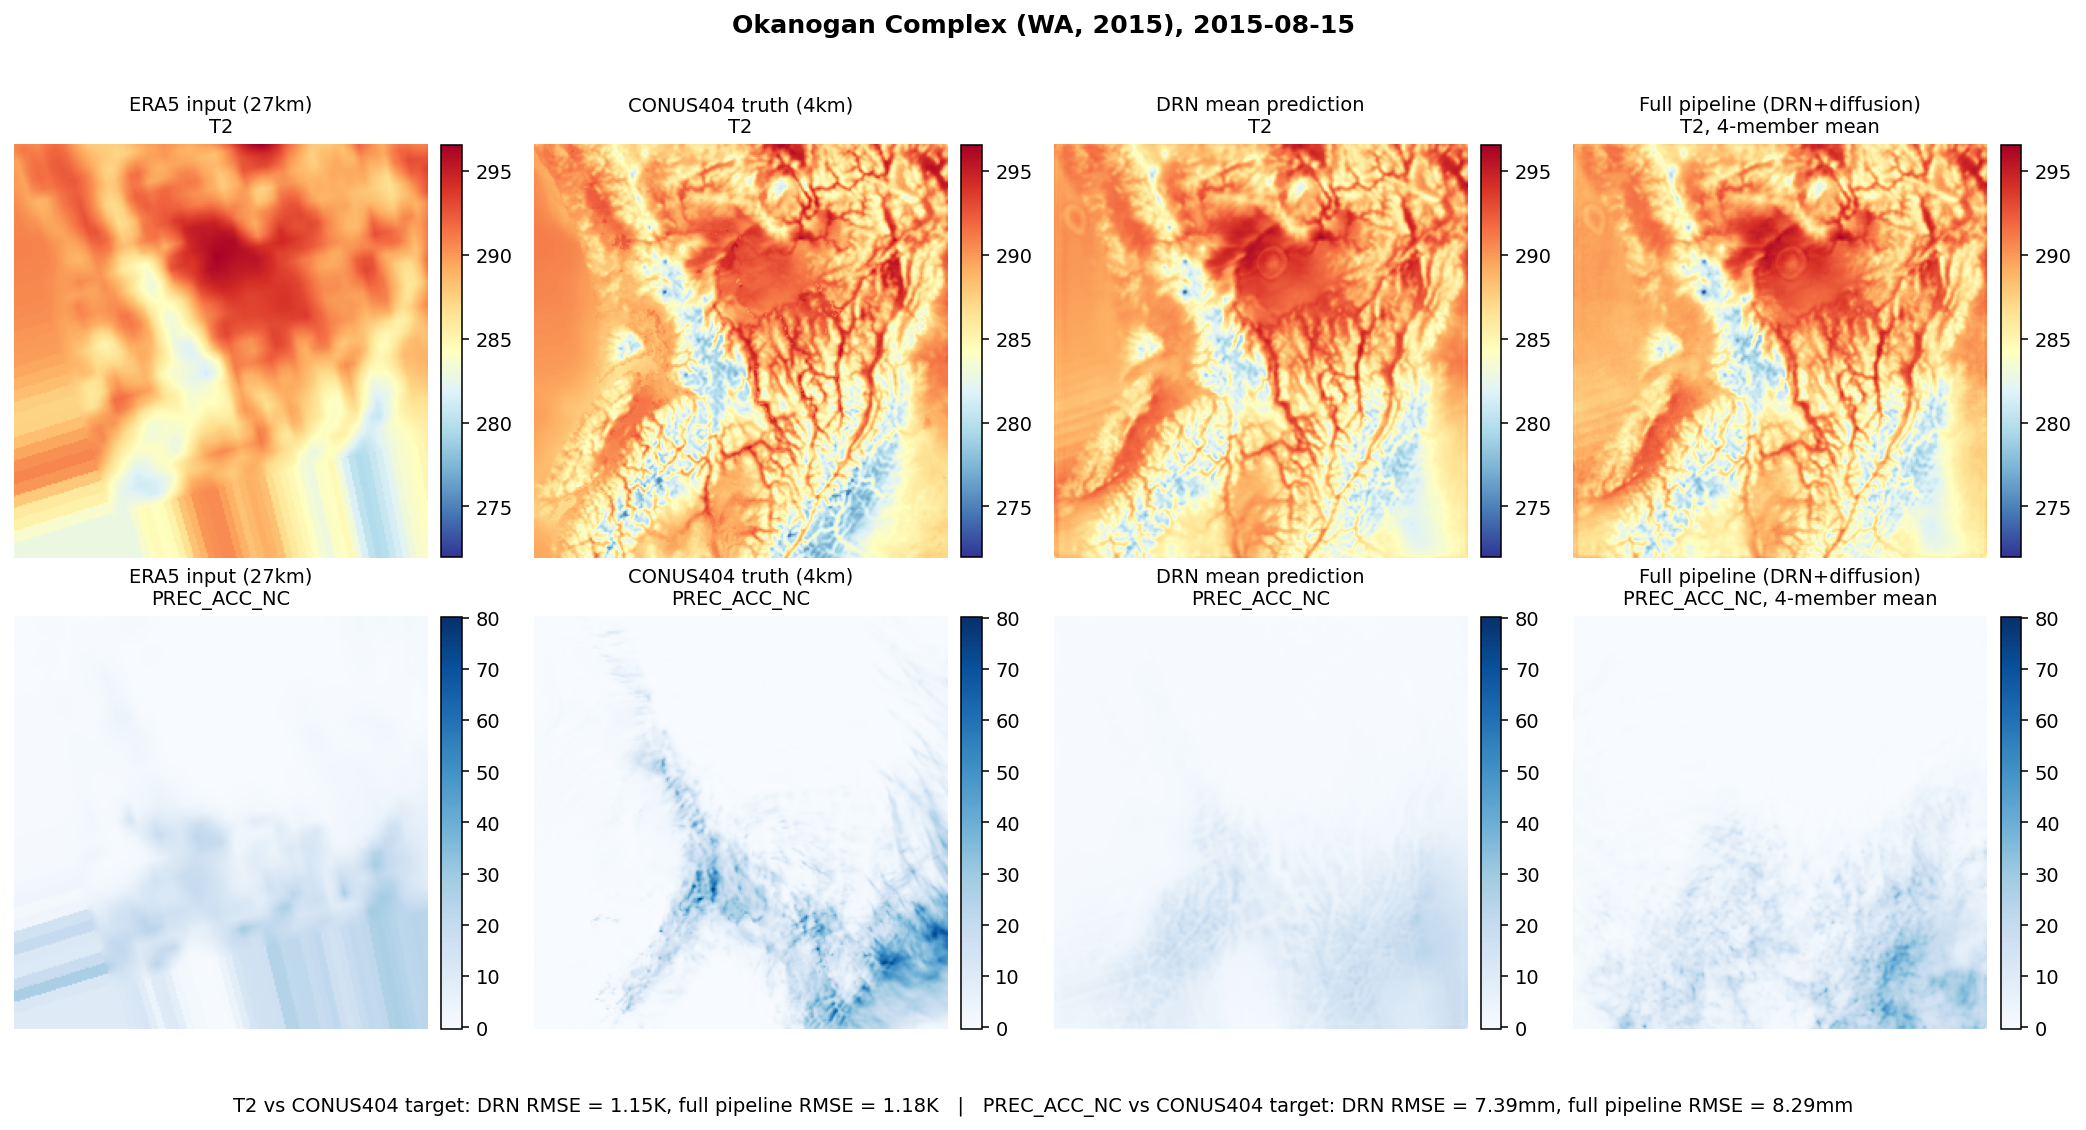
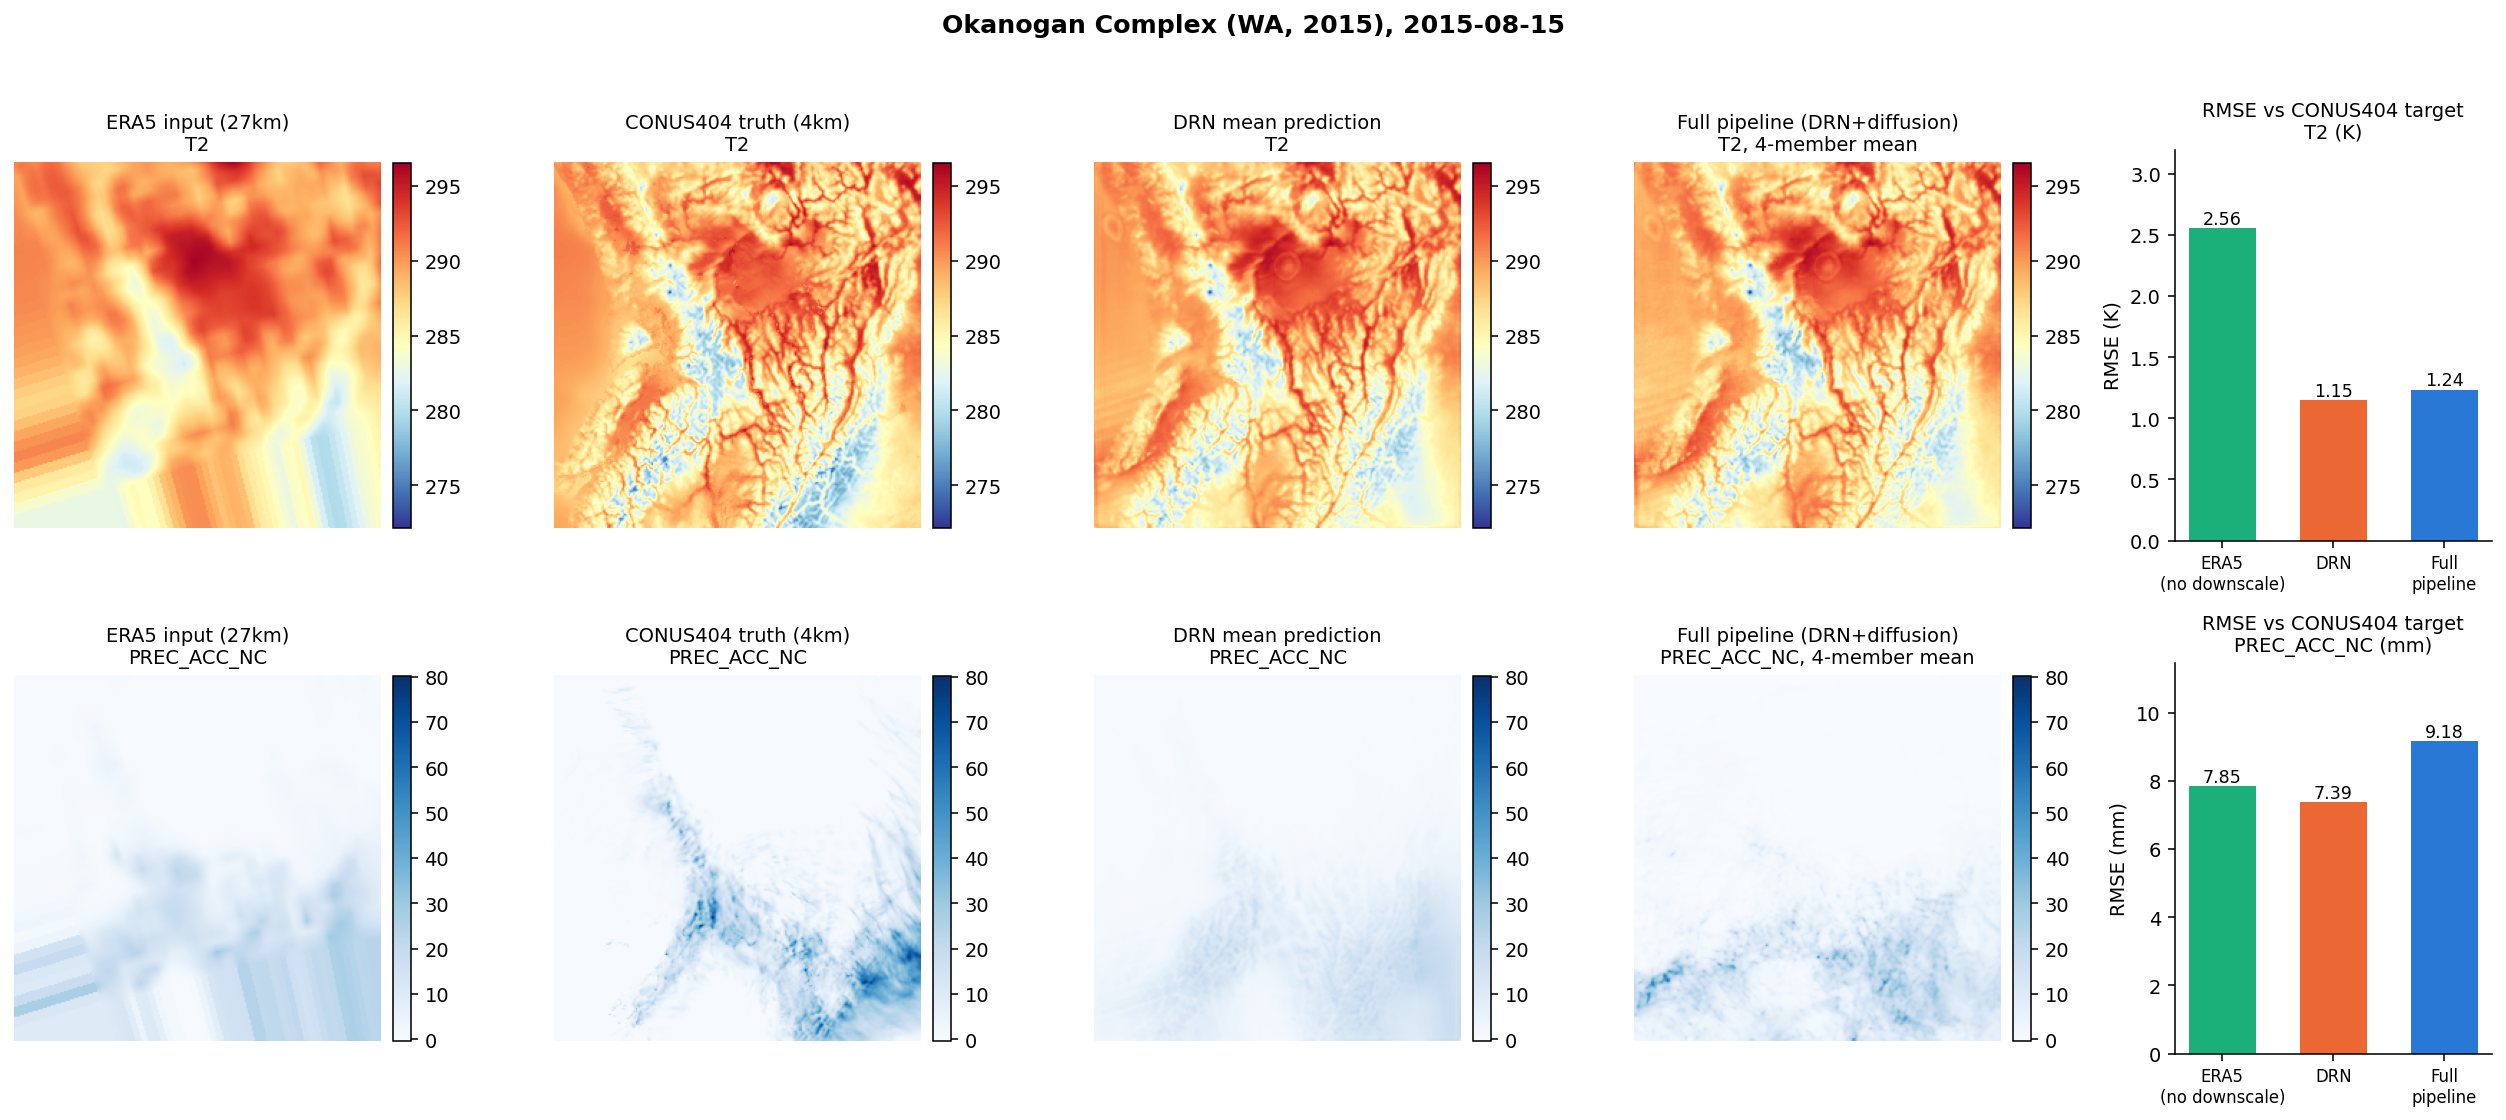
Add RMSE bar chart column to wildfire case-study plots
5th column per row is now a bar chart (ERA5 no-downscale baseline vs
DRN vs full diffusion pipeline RMSE against the CONUS404 target),
replacing the text-only summary at the bottom.

Claude-Session: https://claude.ai/code/session_01Cr9pG4DCqmSgMizF69GNgL

diff --git a/scripts/run_wildfire_cases.py b/scripts/run_wildfire_cases.py
@@ -111,7 +111,10 @@ def run_case(name, date_str, lat, lon, note, models, stats, static, land, lat_gr
     OUT_DIR.mkdir(parents=True, exist_ok=True)
     safe = name.split(" (")[0].replace(" ", "_")
 
-    fig, axes = plt.subplots(len(PLOT_VARS), 4, figsize=(15, 3.6 * len(PLOT_VARS) + 0.6), dpi=140)
+    BLUE, ORANGE, AQUA = "#2a78d6", "#eb6834", "#1baf7a"
+
+    fig, axes = plt.subplots(len(PLOT_VARS), 5, figsize=(18, 3.6 * len(PLOT_VARS) + 0.6), dpi=140,
+                              gridspec_kw={"width_ratios": [1, 1, 1, 1, 0.8]})
     if len(PLOT_VARS) == 1:
         axes = axes[None, :]
     rmse_lines = []
@@ -119,17 +122,19 @@ def run_case(name, date_str, lat, lon, note, models, stats, static, land, lat_gr
         ci = CONUS404_VARS.index(var)
         ei = ERA5_VARS.index({"T2": "t2m", "PREC_ACC_NC": "tp"}[var])
         truth_field = truth_phys[ci]
+        era5_field = era5_phys[ei]
         drn_field = drn_phys[ci]
         ens_field = ens_phys[ci]
+        rmse_era5 = float(np.sqrt(np.mean((era5_field - truth_field) ** 2)))
         rmse_drn = float(np.sqrt(np.mean((drn_field - truth_field) ** 2)))
         rmse_ens = float(np.sqrt(np.mean((ens_field - truth_field) ** 2)))
         unit = "K" if var == "T2" else "mm"
         rmse_lines.append(
-            f"{var} vs CONUS404 target: DRN RMSE = {rmse_drn:.2f}{unit}, "
-            f"full pipeline RMSE = {rmse_ens:.2f}{unit}"
+            f"{var} vs CONUS404 target: ERA5 (no downscaling) RMSE = {rmse_era5:.2f}{unit}, "
+            f"DRN RMSE = {rmse_drn:.2f}{unit}, full pipeline RMSE = {rmse_ens:.2f}{unit}"
         )
         panels = [
-            (era5_phys[ei], f"ERA5 input (27km)\n{var}"),
+            (era5_field, f"ERA5 input (27km)\n{var}"),
             (truth_field, f"CONUS404 truth (4km)\n{var}"),
             (drn_field, f"DRN mean prediction\n{var}"),
             (ens_field, f"Full pipeline (DRN+diffusion)\n{var}, 4-member mean"),
@@ -143,9 +148,22 @@ def run_case(name, date_str, lat, lon, note, models, stats, static, land, lat_gr
             ax.set_title(title, fontsize=10)
             ax.axis("off")
             plt.colorbar(im, ax=ax, fraction=0.046, pad=0.03)
+
+        bax = axes[row, 4]
+        labels = ["ERA5\n(no downscale)", "DRN", "Full\npipeline"]
+        vals = [rmse_era5, rmse_drn, rmse_ens]
+        colors = [AQUA, ORANGE, BLUE]
+        bars = bax.bar(labels, vals, color=colors, width=0.6)
+        for b, v in zip(bars, vals):
+            bax.text(b.get_x() + b.get_width() / 2, v, f"{v:.2f}", ha="center", va="bottom", fontsize=9)
+        bax.set_title(f"RMSE vs CONUS404 target\n{var} ({unit})", fontsize=10)
+        bax.set_ylabel(f"RMSE ({unit})")
+        bax.spines[["top", "right"]].set_visible(False)
+        bax.tick_params(axis="x", labelsize=8.5)
+        bax.set_ylim(0, max(vals) * 1.25)
+
     fig.suptitle(f"{name}, {date_str}", fontsize=13, fontweight="bold", y=1.02)
-    fig.tight_layout(rect=[0, 0.05, 1, 1])
-    fig.text(0.5, 0.01, "   |   ".join(rmse_lines), ha="center", va="bottom", fontsize=10)
+    fig.tight_layout()
     fig.savefig(OUT_DIR / f"{safe}.png", bbox_inches="tight")
     plt.close(fig)
     print(f"[done] {name}: wrote {OUT_DIR}/{safe}.png  ({'; '.join(rmse_lines)})")
